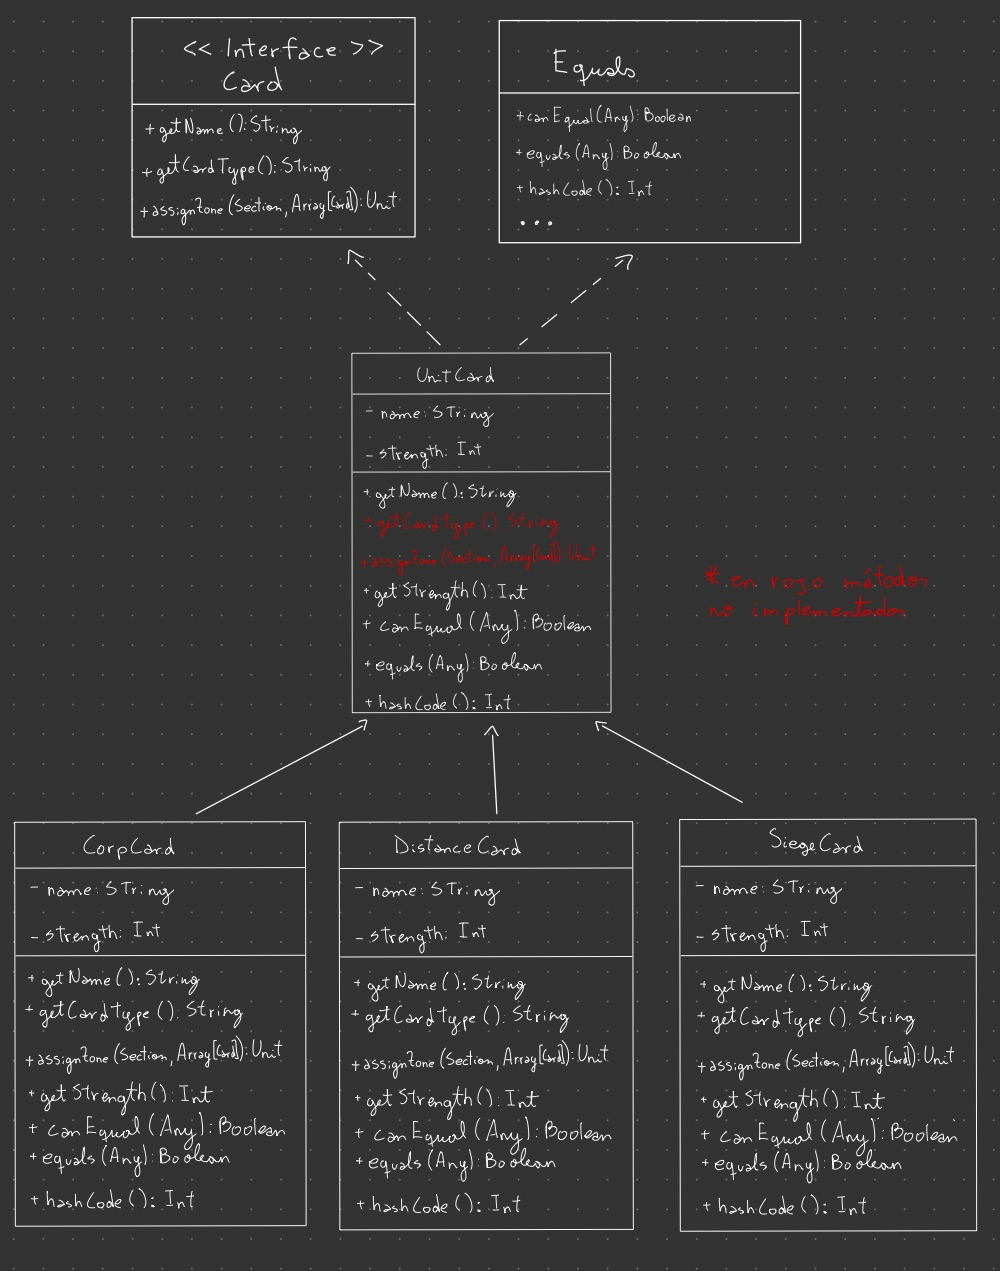
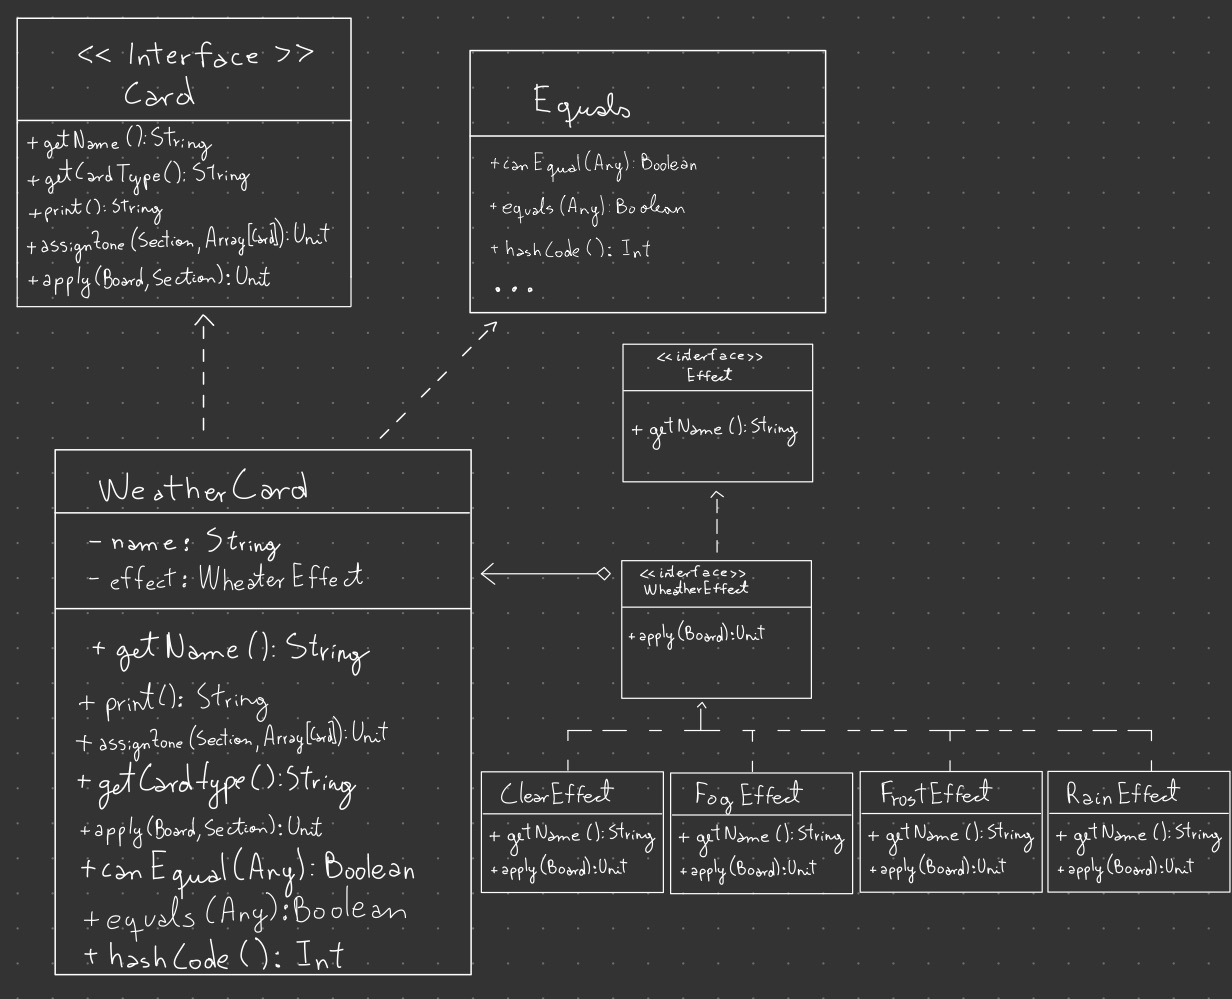
DOCS(README): se actualiza el readme con las ultimas implementaciones

diff --git a/README.md b/README.md
@@ -73,6 +73,8 @@ Para la implementación de los efectos se crearon 3 clases para las cartas de un
 * MoralEffect: o refuerzo moral, aumenta la fuerza de las cartas en su fila en 1, excepto a si misma
 * NullEffect: es una implementación de null object para las cartas sin efecto
 
+A su vez los efectos climaticos sobre las cartas se realizan mediante estados. ClearState, FogState, FrostState y RainState.
+
 ---
 
 ## Jugadores
@@ -144,11 +146,14 @@ Es importante notar que si el jugador no tiene cartas por jugar se pasa automát
 
 ---
 ## Factories
-
+Se implementan fábricas para la creación de las cartas al iniciar la partida (para crear los mazos). Cada Fabrica crea cartas 
+de forma random eligiendo entre un arreglo de nombres, un entero (entre 0 y 20) que representa la fuerza de la carta y un efecto que se elige 
+tambien de forma aleatoria.
 
 ---
 ## Vista
-Es la clase encargada de los outputs e inputs del juego, permite que este se pueda jugar en la consola
+Es la clase encargada de los outputs e inputs del juego, permite que este se pueda jugar en la consola.
+Dentro de sus funciones esta mostrar el tablero, la mano del jugador, preguntarle al jugador si quiere jugar cartas, cuál carta jugar, entre otras.
 
 ---
 ## UML Global
